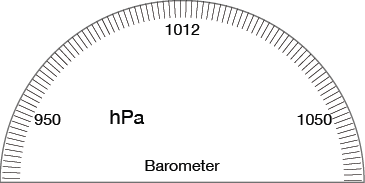
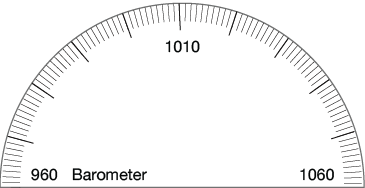
barometern funk klar

Changed region(s): [[0.0, 0.0, 0.9945, 1.0], [0.4521, 0.2186, 0.5726, 0.3005], [0.3014, 0.6011, 0.3918, 0.6831]]

diff --git a/src/js/Barometer.js b/src/js/Barometer.js
@@ -7,23 +7,25 @@ class Barometer {
         barometerContainer.appendChild(this.barometer);
         this.pElement = document.createElement('p');
         this.barometer.appendChild(this.pElement);
+        this.img = document.createElement('img');
+        this.img.src = './src/js/img/barpointer.png';
+        this.img.id = 'barpointer';
+        barometerContainer.appendChild(this.img);
 
 
-
-        this.createImage(barometerContainer);
+        
     }
 
     update(hPa) {
-        console.log(hPa);
+
+        hPa = Math.floor(hPa);
+        
         this.pElement.innerHTML = hPa + ' hPa';
+        var deg = ((hPa - 961) / (1060 - 961)) * 180 - 90;
+
+        this.img.style.transform = 'translateX(-50%) rotate(' + deg + 'deg)';
+        console.log(deg);
     }
 
-    createImage(barometerContainer){
-
-        var img = document.createElement('img');
-        img.src = './src/js/img/barpointer.png';
-        img.id = 'barpointer';
-        barometerContainer.appendChild(img);
-
-    }
+    
 }

diff --git a/src/js/css/style.css b/src/js/css/style.css
@@ -24,7 +24,7 @@
 #barometer-container {
     background: url(../img/barometer.png) no-repeat center center;
     width: 375px;
-    height: 200px;
+    height: 210px;
     margin: 20px;
     border-radius: 10px;
     box-shadow: 0 0 10px 0 rgba(0, 0, 0, 0.2);
@@ -49,21 +49,22 @@
     justify-content: center;
     align-items: center;
     margin: 20px;
-    background-color: #e66666dc;
-    width: 75px;
-    height: 40px;
-    border-radius: 10px;
-    box-shadow: 0 0 10px 0 rgba(0, 0, 0, 0.2);
+    background-color: #e6666600;
+    width: 90px;
+    height: 30px;
     position: relative;
-    top: 43%;
-    left: 53%;
+    top: 73%;
+    left: 50%;
 
 }
 
 #barpointer{
     position: relative;
-    top: -35%;
-    left: 49%;
+    top: -28%;
+    left: 50%;
+    
+    transform-origin: bottom;
+    transform: translateX(-50%) rotate(-45deg);
 }
 
 #temp-container {
